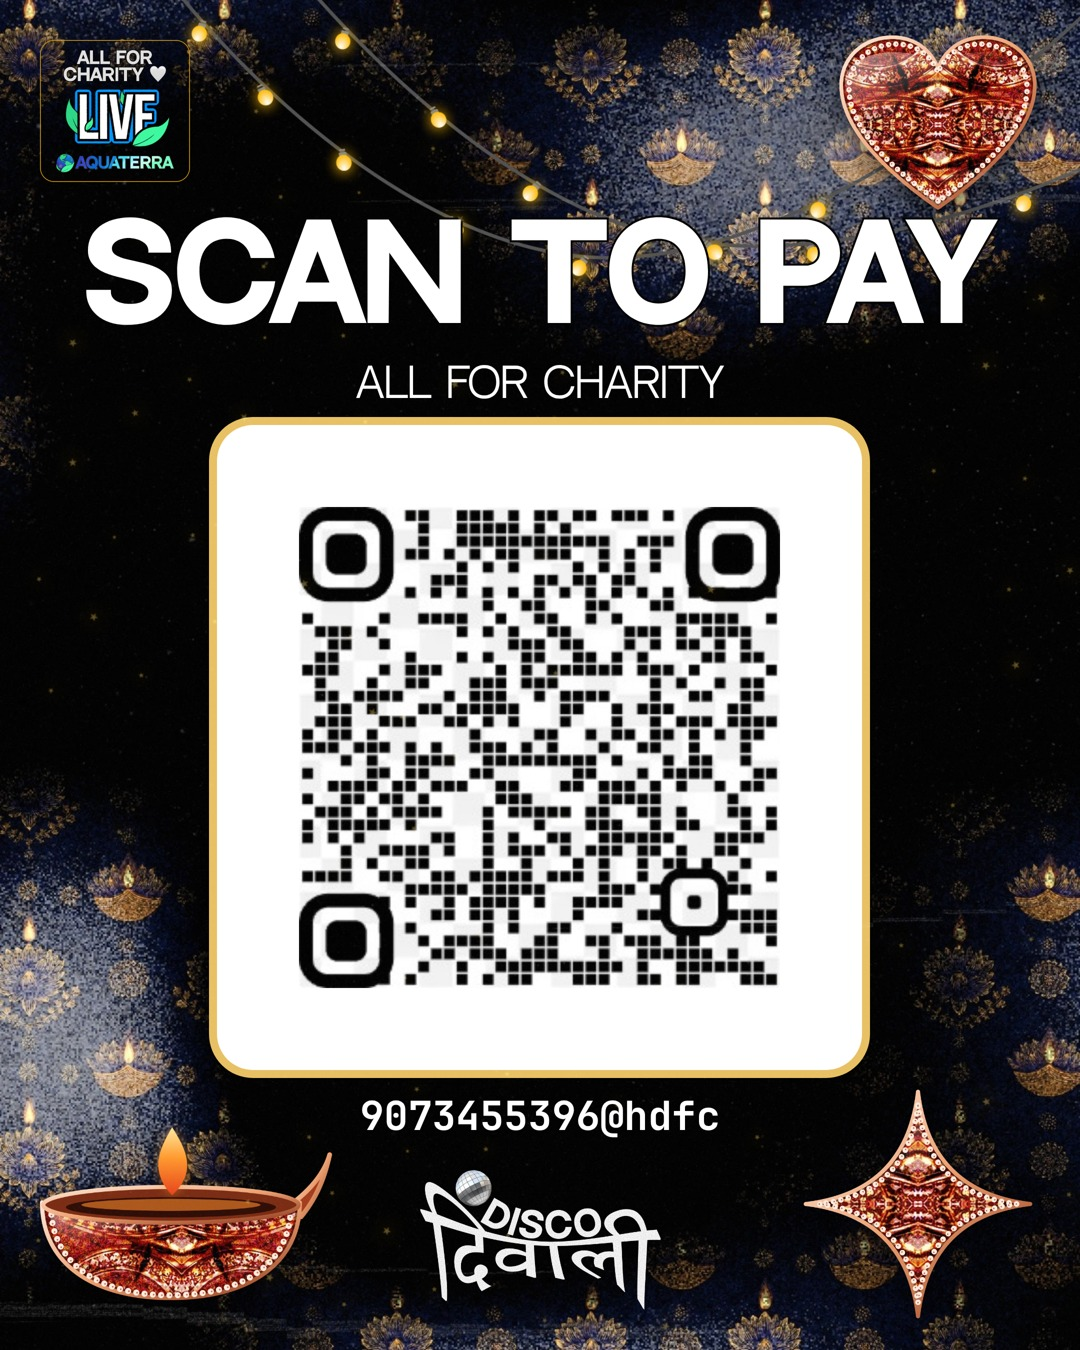
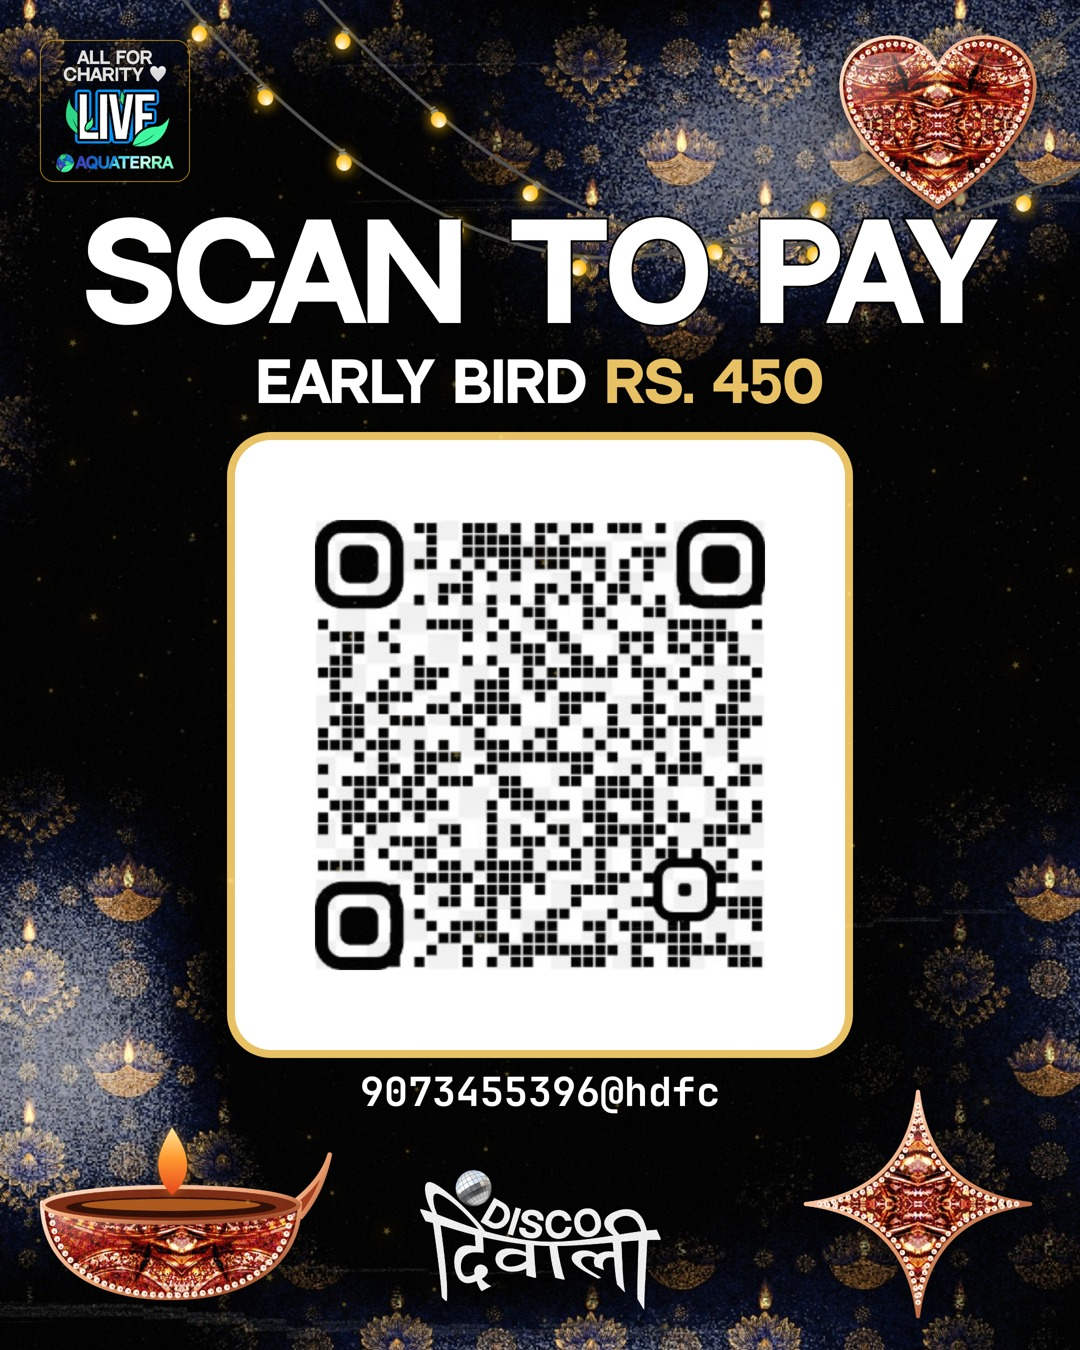
DD WhatsApp payment QR: Early Bird Rs. 450
Claude-Session: https://claude.ai/code/session_014RDbvKtvXWgKf3CMi5XkjN

Changed region(s): [[0.275, 0.3733, 0.7333, 0.7467], [0.1833, 0.2489, 0.825, 0.84]]

diff --git a/scratchpad/dd_wa_payment_qr.py b/scratchpad/dd_wa_payment_qr.py
@@ -8,7 +8,7 @@ report success unless it equals PAYLOAD. TEST-SCAN with a payment app before pos
 Branding: the approved diya ground (black, navy and gold lotus corners fading to black, string lights, gold dust, film grain), the small
 LIVE badge top left, off-white bold uppercase NeutralFace with a black stroke, the lockup (with its ball) as a footer mark. No pill, no link
 (WhatsApp has nothing to point at). The QR sits on a paper plate with a 4-module quiet zone (a QR on black does not scan) and a gold keyline.
-Hero: SCAN TO PAY. Copy is only supplied facts: ALL FOR CHARITY and the UPI ID the user supplied.
+Hero: SCAN TO PAY. Copy is only supplied facts: EARLY BIRD RS. 450 (user, 2026-10-21; the code carries NO amount, so buyers type 450 themselves) and the UPI ID. ALL FOR CHARITY lives in the LIVE badge.
 No price (unconfirmed, DISCO_DIWALI.md sec 1), no date, no venue.
 Adaptation: the diya ground rather than the photo ground, so the plate is the only bright object and the code is the first thing the eye lands on.
 
@@ -30,9 +30,9 @@ PAYLOAD = "upi://pay?pa=9073455396@hdfc&pn=AquaTerra&cu=INR&tn=Disco Diwali&"
 QR_SRC = os.path.join(ROOT, "engine", "assets", "disco_diwali", "qr_payment_user.png")
 STROKE = "color:#fff;-webkit-text-stroke:4px #000;paint-order:stroke fill;"
 GL = "#E8C063"
-CODE = 481                                # css px of the cropped code
-PLATE = 645                               # quiet zone (645-481)/2 = 82px, ~5.5 modules
-PX, PY = (W - PLATE) // 2, 425
+CODE = 450                                # css px of the cropped code
+PLATE = 610                               # quiet zone (645-481)/2 = 82px, ~5.5 modules
+PX, PY = (W - PLATE) // 2, 440
 
 
 def ground():
@@ -54,7 +54,7 @@ def poster():
         els.append((tag, (W - w) // 2, top, w, h))
     # SCAN TO PAY is the hero, set across the frame; ALL FOR CHARITY sits under it
     line("head", "Scan to pay", 215, 128, 700, 128)
-    line("sub", "All for charity", 365, 40, 400, 42, w=560)
+    line("sub", f'Early bird <span style="color:{GL}">Rs. 450</span>', 358, 54, 700, 56, w=700)
 
     # the QR plate: paper, rounded, gold keyline, hard shadow; the code keeps a 4-module quiet zone
     qz = (PLATE - CODE) / 2
@@ -67,7 +67,7 @@ def poster():
     els.append(("qr", PX - 8, PY - 8, PLATE + 16, PLATE + 16))
 
     # UPI ID under the plate, so a buyer can type it if the scan fails
-    line("upi", UPI_ID, PY + PLATE + 26, 40, 700, 42, w=420, upper=False, font="--m")
+    line("upi", UPI_ID, PY + PLATE + 22, 40, 700, 42, w=420, upper=False, font="--m")
 
     # copper stickers (user, 2026-10-21: "add stickers as well"): the transparent PNGs from dd_sticker_export.py, one per free zone, none touching the code or type
     stk = os.path.join(ROOT, "sample_outputs", "disco_diwali_stickers")
@@ -104,7 +104,7 @@ async def main():
     print(f"footer mark starts at y={top} of {H}")
     out = os.path.join(OUT, "poster.png")
     async with B.session():
-        text_pairs = [("head", "#fff", "#000", 128, True), ("sub", "#fff", "#000", 40, False), ("upi", "#fff", "#000", 40, True)]
+        text_pairs = [("head", "#fff", "#000", 128, True), ("sub", "#fff", "#000", 54, True), ("upi", "#fff", "#000", 40, True)]
         await B.render(B.page(W, H, "#000", inner, grain=False), out, W, H, elements=els, containers=(), bleed_tags=("plate",), crop_tags=("plate",),
                        text_pairs=text_pairs, page_bg="#000", collision_ignore=[])
     verify(out)
